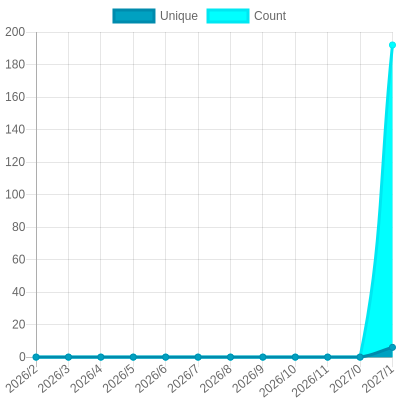
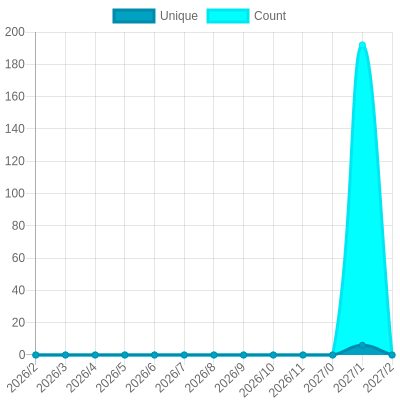
Update views

diff --git a/readme/1160670007/year.md b/readme/1160670007/year.md
@@ -20,6 +20,17 @@
 	</tr>
 	<tr>
 		<td>
+			<code>2026/3/1</code>
+		</td>
+		<td>
+			<code>0</code>
+		</td>
+		<td>
+			<code>0</code>
+		</td>
+	</tr>
+	<tr>
+		<td>
 			<code>2026/2/1</code>
 		</td>
 		<td>
@@ -153,7 +164,7 @@
 </table>
 
 </details>
-<small><i>Last updated on 2026/3/1 12:11 AM UTC</i></small>
+<small><i>Last updated on 2026/3/2 12:10 AM UTC</i></small>
 
 ## ✂Copy and 📋 Paste
 ### SVG Badge
